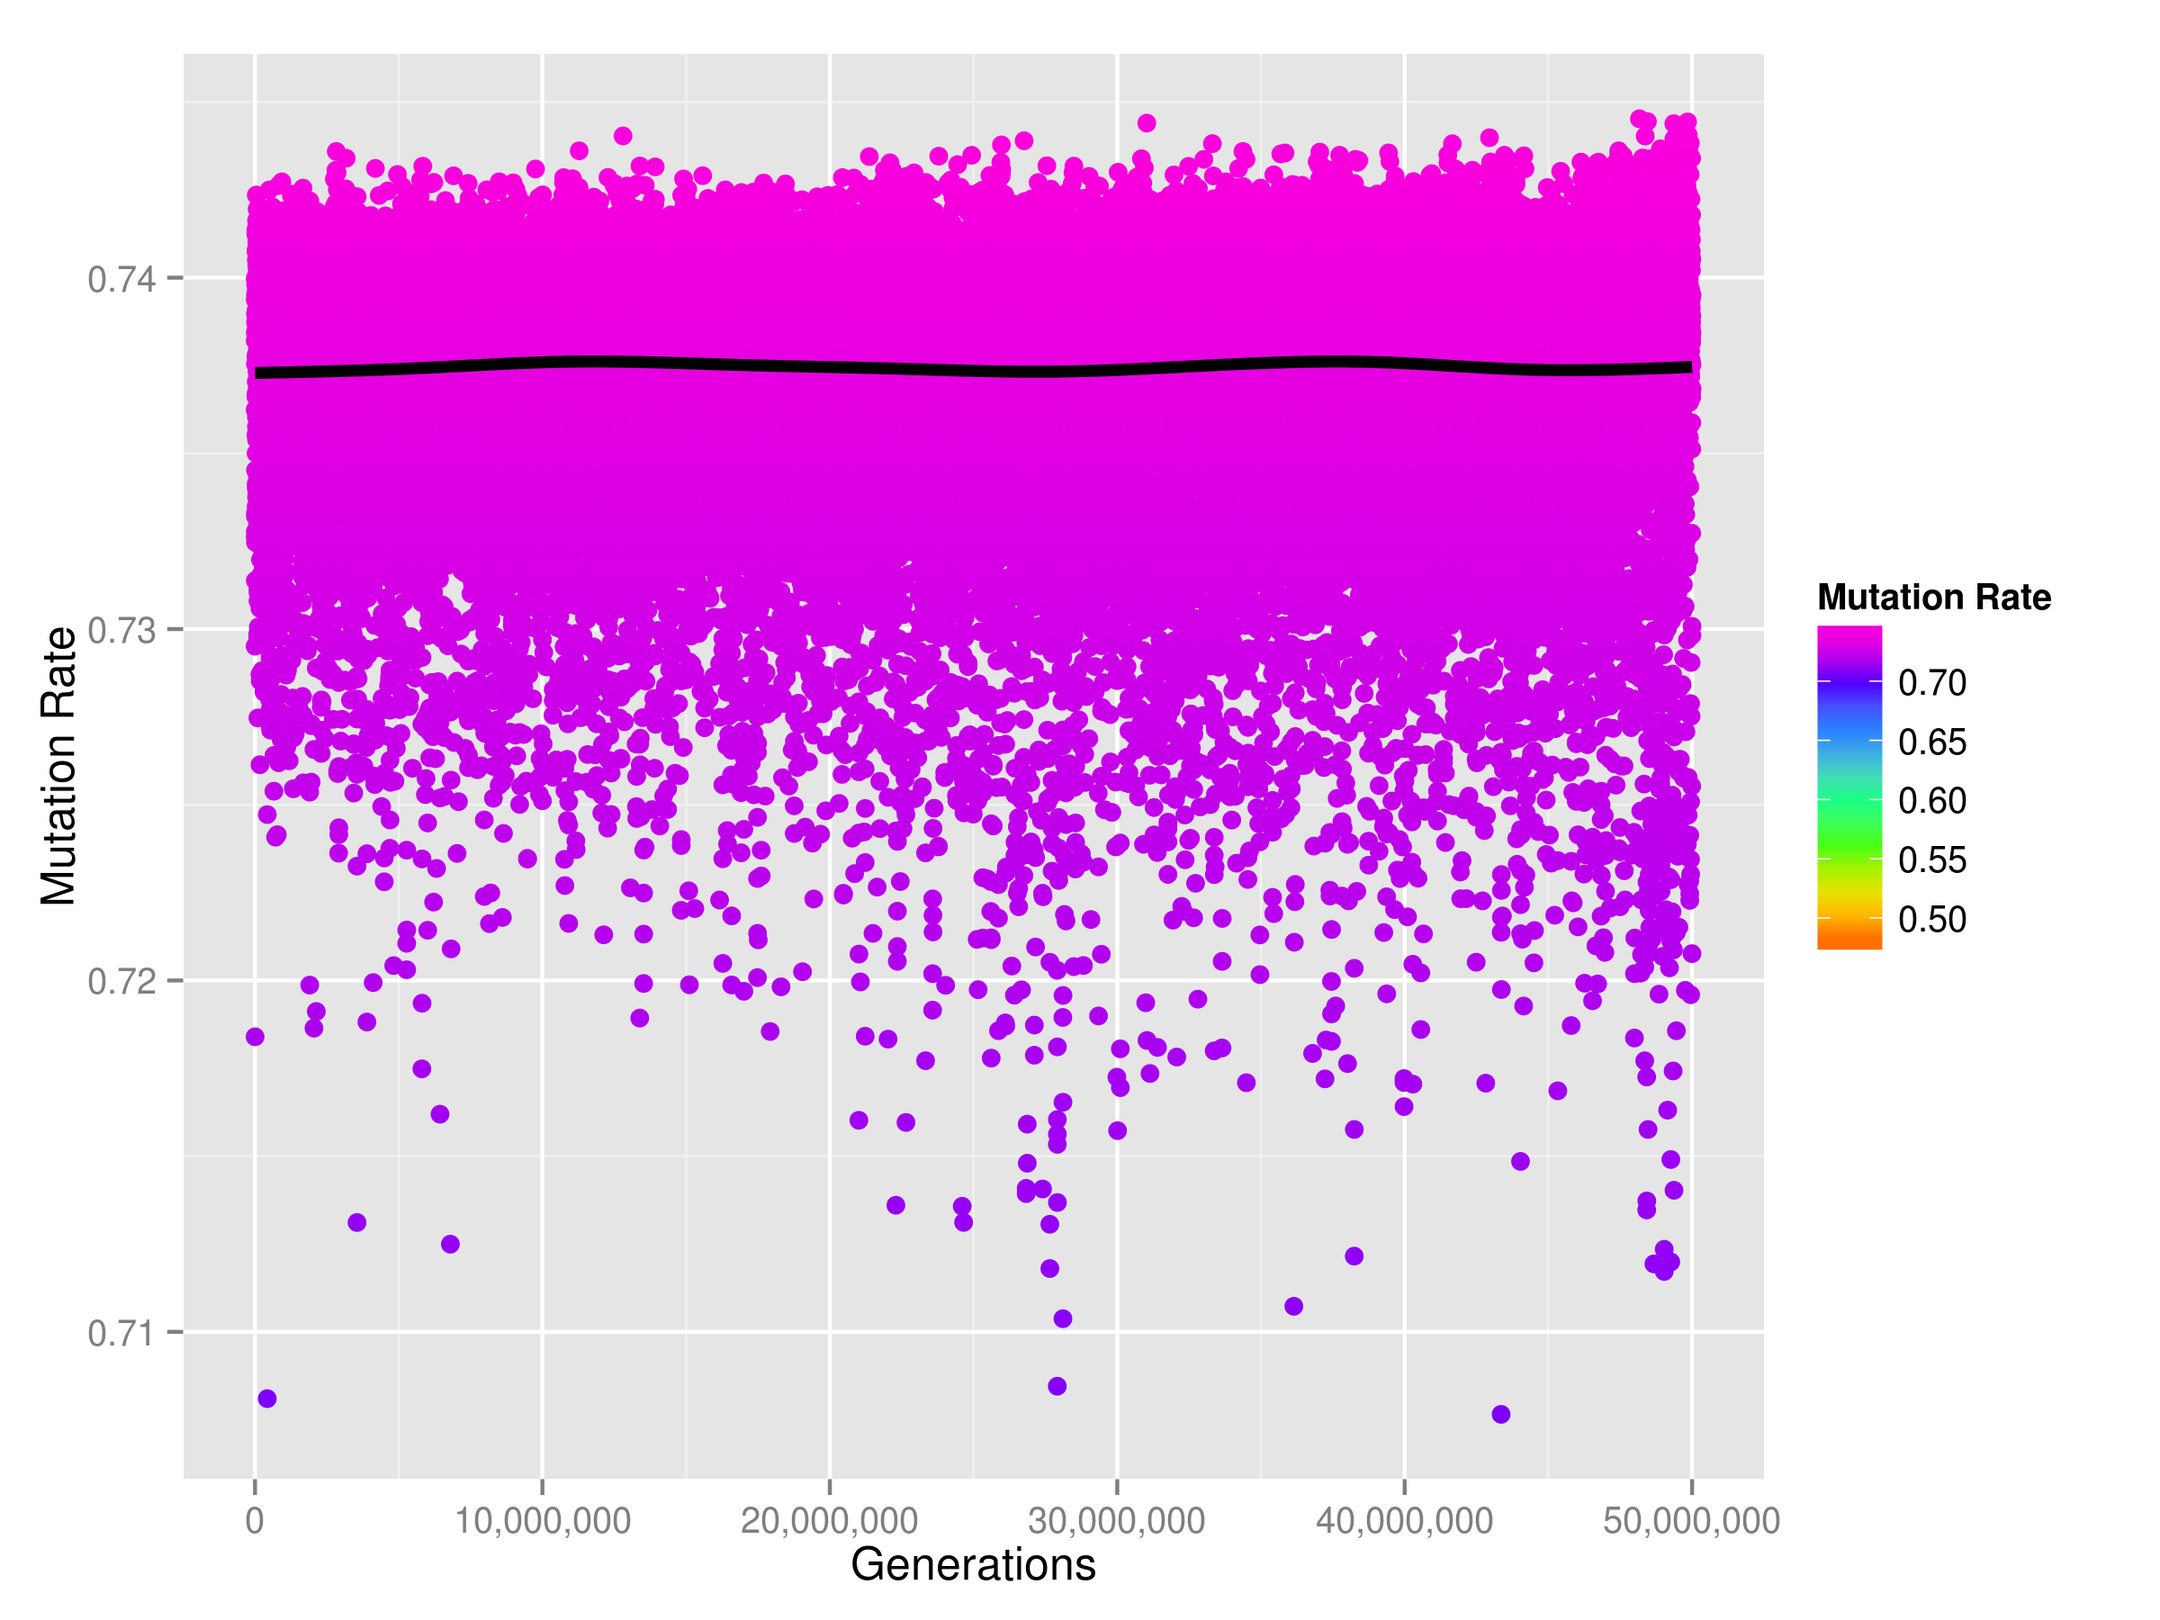
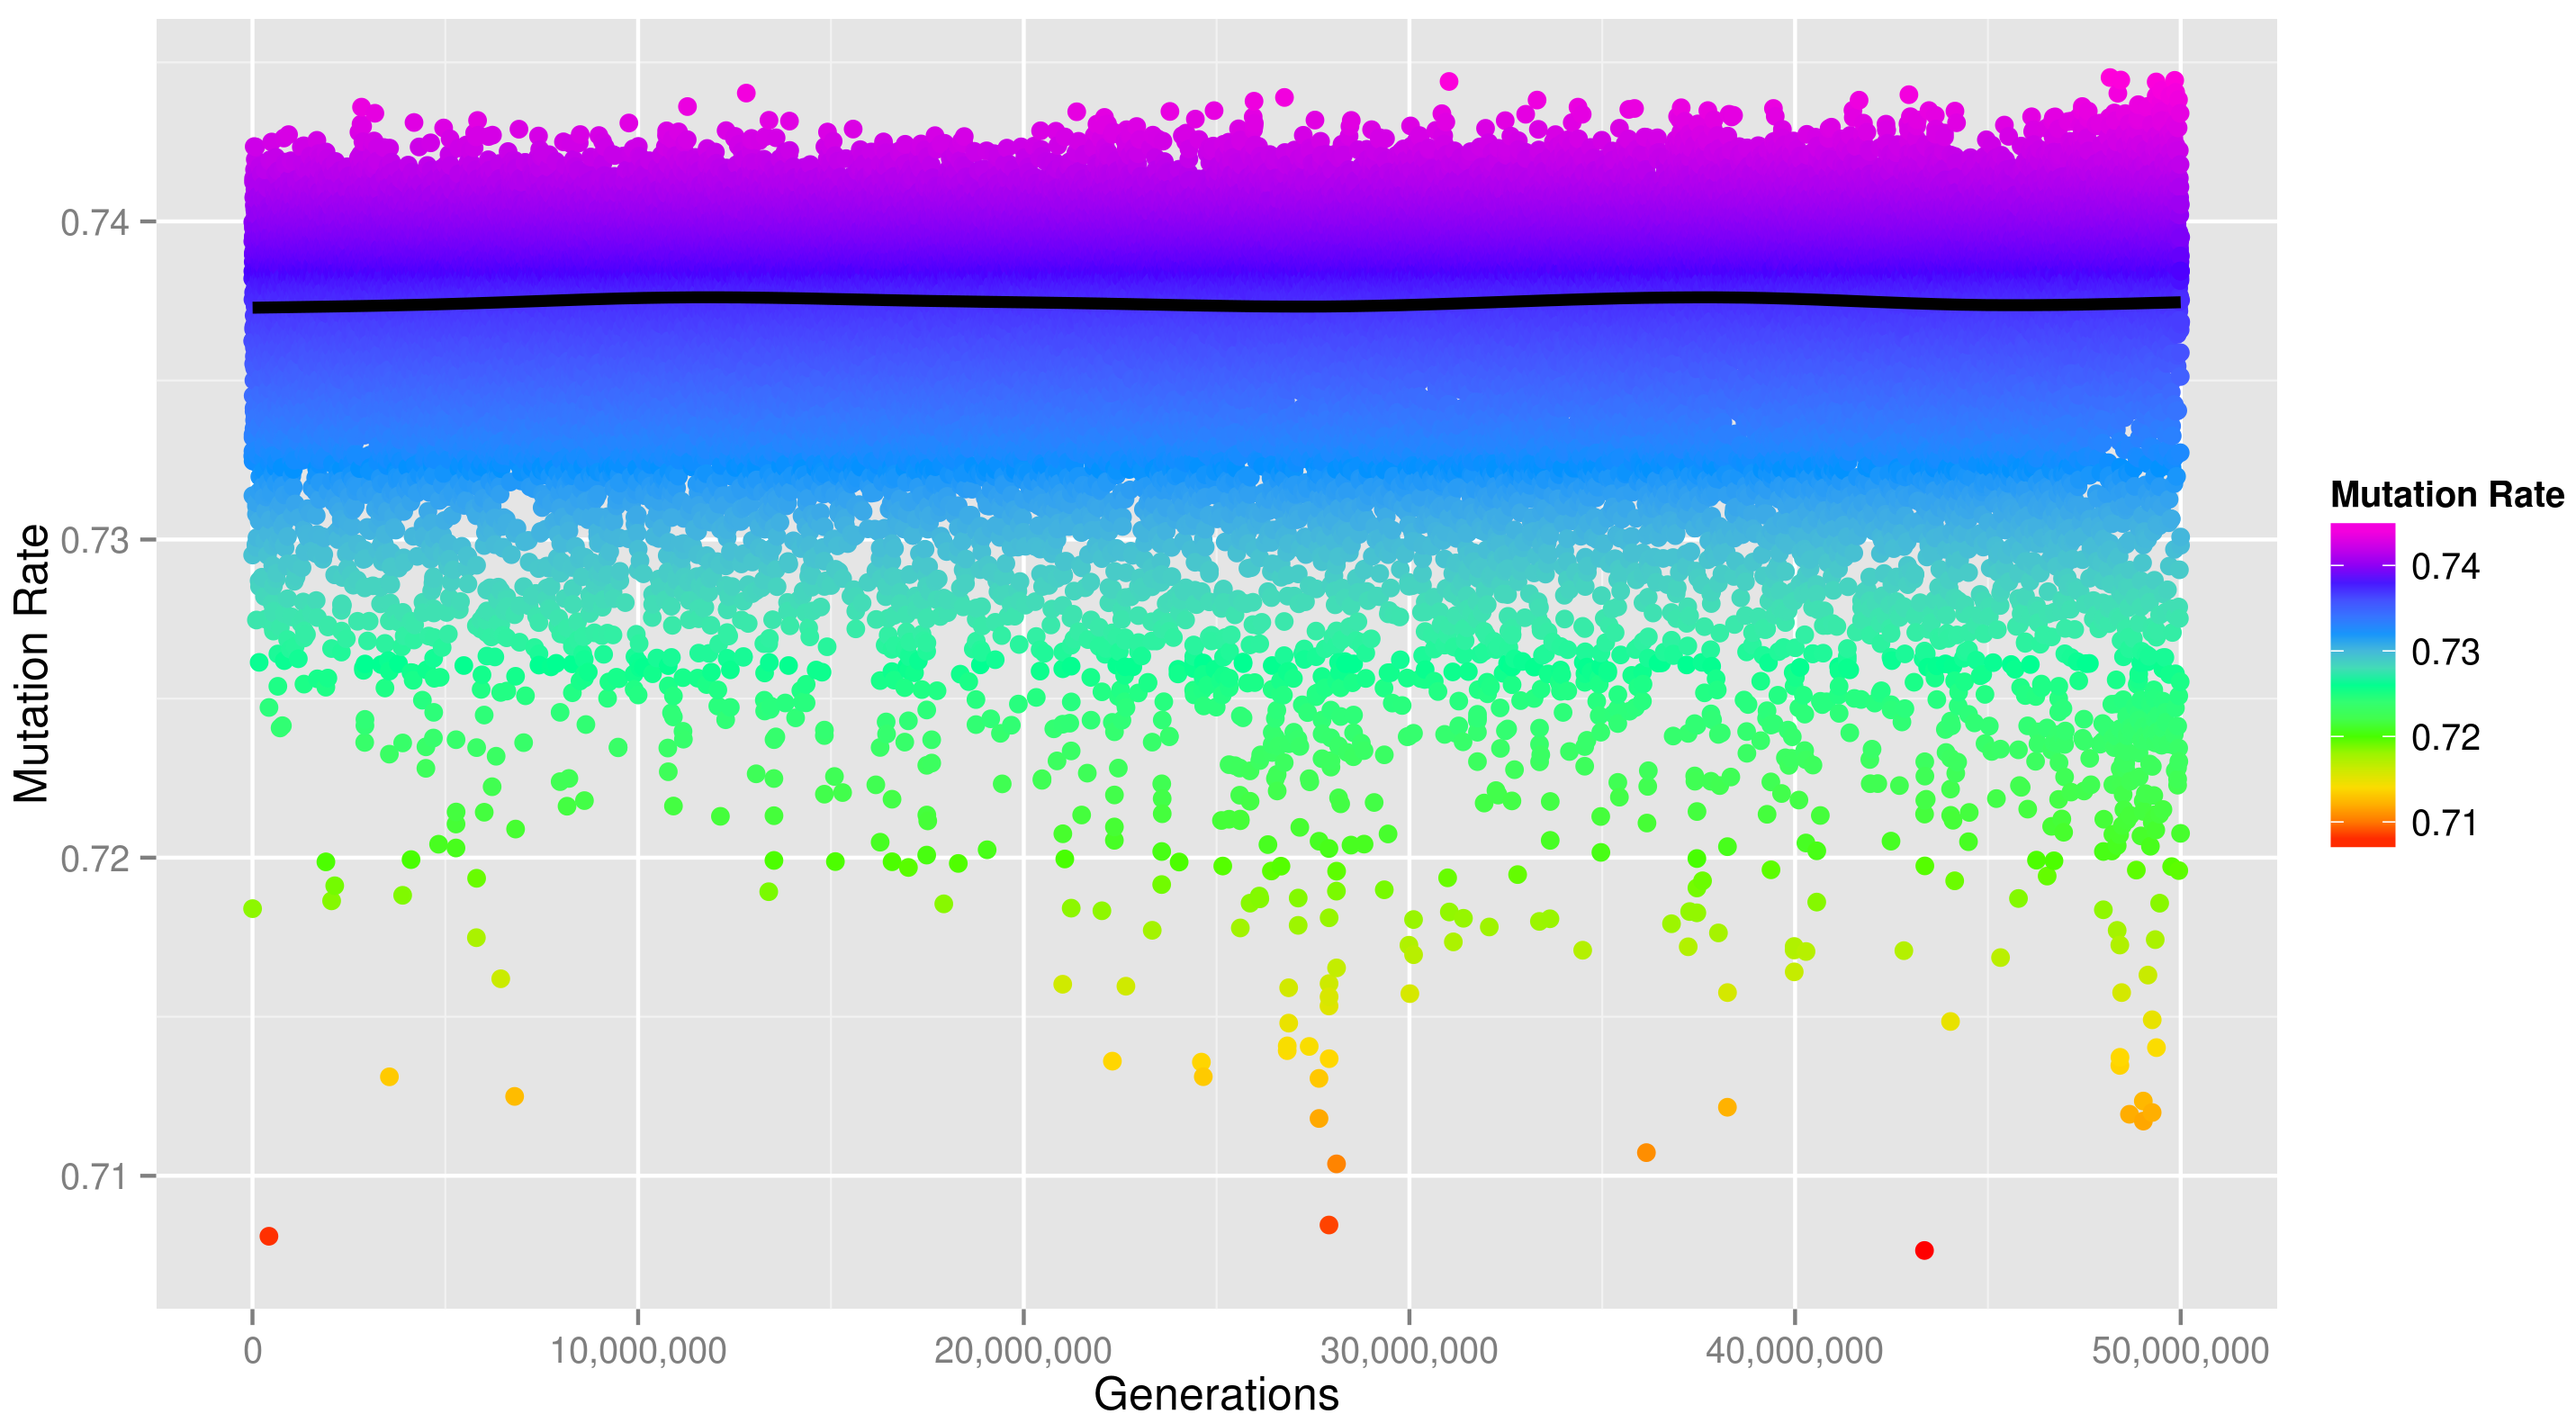
Updated the figures

diff --git a/paper/adaptive-mutation-paper.ieee.tex b/paper/adaptive-mutation-paper.ieee.tex
@@ -307,7 +307,7 @@ We observed that there is a proportional inverse relationship between $N$ and th
 \end{figure}
 
 \begin{figure}[htp]
-\centerline{\includegraphics[width=0.48\textwidth]{figures/mutation_32q_1.png}}
+\centerline{\includegraphics[width=0.48\textwidth]{figures/mutation_32q_2.png}}
 \vspace{-6pt}
 \caption{Mutation Probability vs Generations for the 32-Queen Problem (Self-Adaptive)} 
 \label{fig:mutation32q}
